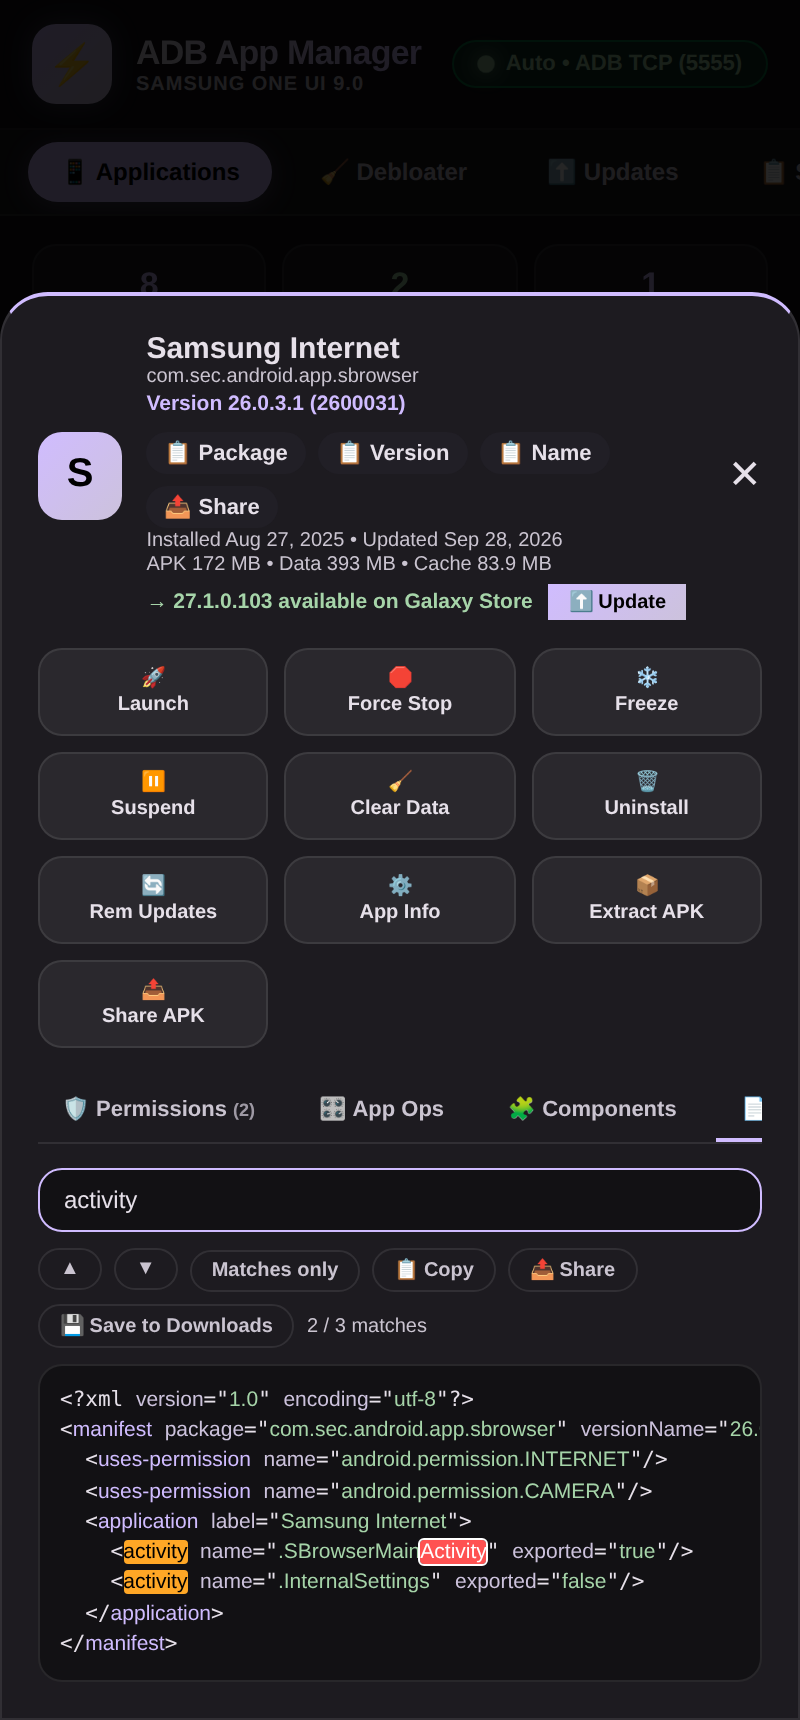
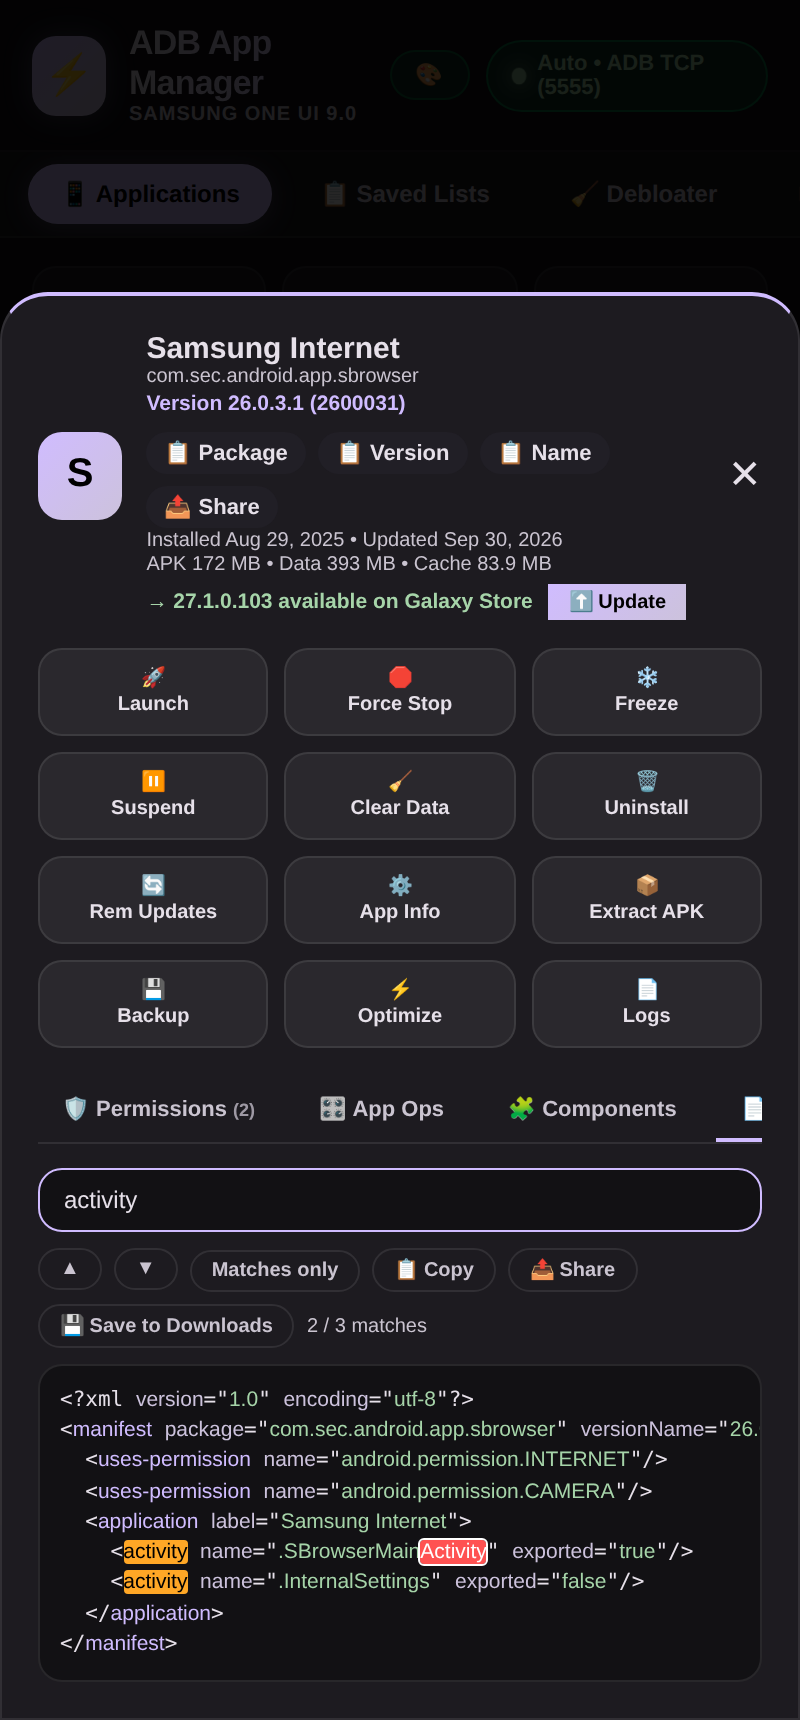
v6.0.3: make the app menu sheet a little taller
The sheet that opens from ⋯ on an app now stands 93% of the screen high instead of 85%, so the lists under its buttons (Permissions,
App Ops, Components, Manifest) get more room: 64 px more on a 360 x 800 screen, where the first list had about two rows (127 px) before
the bottom edge when the header carried an update hint. The rule is scoped to #inspectorModal: the other 24 sheets keep 85%, the strip
above the app sheet (7% of the screen) still closes it when tapped, and the inner list limit (52vh) is unchanged.

docs/screenshots/manifest-search.png is redone as well: it still showed the Share APK button that v6.0.2 removed (v6.0.2 redid only the
two app-menu images, which do not change now).

README (a New in v6.0.3 note, the UI script count and what the scripts cover), CHANGELOG, version 6.0.3-Pro (versionCode 603); release
workflow default 6.0.3.

Tests: new t69 checks the app sheet at 360 x 800, 320 x 640 and 412 x 915: its maximum and actual height, the strip above it, the extra
room for the lists (8% of the screen height), that the other 24 sheets keep 85%, that the end of a 45-permission list can be scrolled
into view, that a tap on the strip closes the sheet, the frozen and removed-app variants, and a 480 px high window (keyboard open).
Against the previous page it fails (10 checks), against this one it passes. Full UI regression (69 scripts) passes; its logs differ from
the v6.0.2 run only in t20's version lines and in timestamps and timings.

diff --git a/assets/index.html b/assets/index.html
@@ -857,6 +857,11 @@
             transform: translateY(0);
         }
 
+        /* The app menu stacks a header and the buttons above its lists, so it may stand a little taller than the other sheets */
+        #inspectorModal .modal-sheet {
+            max-height: 93vh;
+        }
+
         .sheet-header {
             display: flex;
             align-items: center;

diff --git a/README.md b/README.md
@@ -14,7 +14,7 @@ Debugging, Shizuku or Root**.
 
 ### [⬇ Download the latest APK](https://github.com/Bingblop/ADB-Application-Manager/releases/latest)
 
-`com.bloatware.bingblop` · v6.0.2-Pro · signed APK, installs over every earlier version without uninstalling
+`com.bloatware.bingblop` · v6.0.3-Pro · signed APK, installs over every earlier version without uninstalling
 
 <table>
   <tr>
@@ -105,6 +105,12 @@ Left to right, with the 🎨 **Colors &amp; Themes** button in the header:
 | 🌈 **Overlays** | Recolor Android (Material You: wallpaper or any color, six styles) and switch system overlays on or off ([details](#overlays-and-material-you)) |
 | 🛍 **Store** | ShizuStore, GitHub, F-Droid, Orion and an Aurora hand-off |
 | ℹ **About** | Who made it, which build and key you have, debug info, and the coffee button |
+
+## New in v6.0.3
+
+- **⬆ A taller app menu.** The sheet that opens from **⋯** on an app now stands 93% of the screen high instead of 85%, so the
+  lists under its buttons (Permissions, App Ops, Components, Manifest) get more room: 64 px more on a 360 × 800 screen. The
+  other sheets keep their height, and the strip above it still closes it when you tap it.
 
 ## New in v6.0.2
 
@@ -813,9 +819,9 @@ CHANGELOG.md                   Release notes; the app shows them in What's new
 What was checked before each release, and what was not. The test scripts are not part of this repository, so none of
 this is something you can re-run from a clone.
 
-- **The UI**: 67 headless-Chromium scripts drive the real `assets/index.html` against a mock Android bridge:
+- **The UI**: 69 headless-Chromium scripts drive the real `assets/index.html` against a mock Android bridge:
   every tab, theme, filter, share / copy / find action, profiles and the drift banner, backups, the Installer, the
-  Store, the file manager and archive browser, the terminal, About, the Back button and, for the Hidden Settings tab, the
+  Store, the file manager and archive browser, the terminal, About, the Back button, the height of the app menu and, for the Hidden Settings tab, the
   list, search, filters and sort, tap-to-edit, press-and-hold flipping (with touch events of any hold length), creating,
   deleting, Undo, the change log, refused, unanswered and late requests, a 720-row table, and the layout at 320 and 360 px in
   light and dark. For the Overlays tab: the theme editor (hex, sliders, the 657 presets, styles), apply, reset and Undo, an

diff --git a/CHANGELOG.md b/CHANGELOG.md
@@ -1,5 +1,11 @@
 # Changelog
 
+## v6.0.3-Pro (versionCode 603)
+
+- **⬆ The app menu is a little taller.** The sheet that opens from ⋯ on an app now stands 93% of the screen high instead of
+  85%, so the lists under its buttons (Permissions, App Ops, Components, Manifest) get more room: 64 px more on a 360 × 800
+  screen. Only this sheet changed; the others keep their height, and the strip above it still closes it when you tap it.
+
 ## v6.0.2-Pro (versionCode 602)
 
 - **📤 The Share APK button is gone from the app menu.** Tap ⋯ on an app and the action grid no longer has it. **Extract APK**
